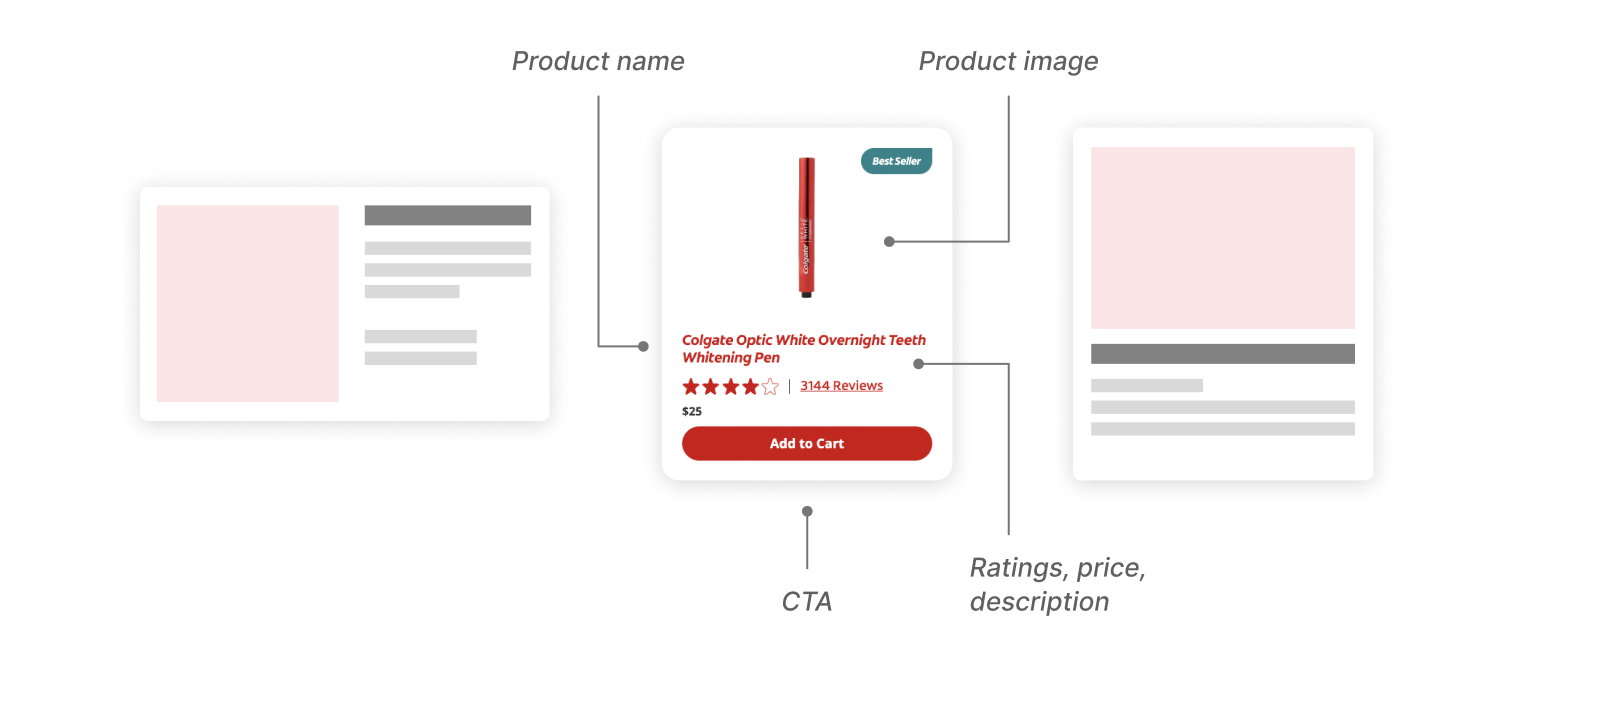
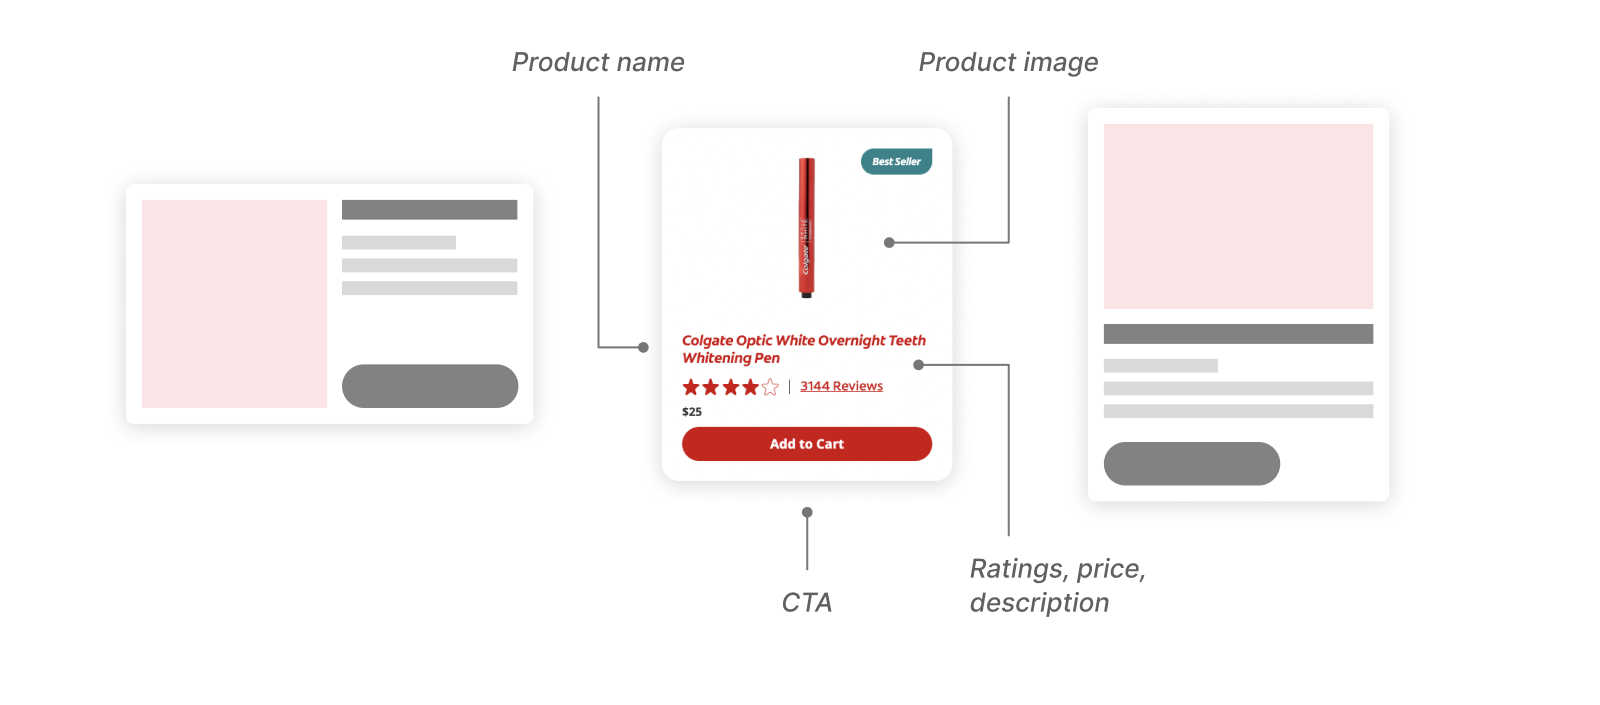
shopsmiles

diff --git a/shopsmiles.html b/shopsmiles.html
@@ -198,31 +198,15 @@
         </div>
 
         <img src="img/shopsmiles/product cards.png">
-    
-        <div class="grid-col-2">
 
-            <div>
-                <p>A card's content depends on what information users deem most important.
-                    From landscape analyses and user interviews, 
-                    we concluded shoppers are <b>most curious</b> of a product's:</p>
-                <ul>
-                    <li>Image</li>
-                    <li>Name</li>
-                    <li>Ratings/reviews</li>
-                    <li>Price</li>
-                </ul>
-            </div>
-
-            <div>
-                <p>The business team also required that we include <b>secondary information</b> such as:</p>
-                <ul>
-                    <li>Sale percentage</li>
-                    <li>Original & discounted price</li>
-                    <li>New/best seller labels</li>
-                </ul>
-            </div>
+        <p>The most important information users look for is a products name, image, price, ratings, description. A call to action (CTA) is often included by the business. 
+        Our business team also required that we include <b>secondary information</b>, or content that will <b>not always be visible</b> on the card:</p>
+        <ul>
+            <li>Sale percentage</li>
+            <li>Original & discounted price</li>
+            <li>New/best seller labels</li>
+        </ul>
                 
-        </div>
     </div>
 
     <div class="padding container-medium">
@@ -232,13 +216,13 @@
     <div class="container-medium">
         <p>While <b>6 variations</b> of the product card lived in the ShopSmiles design system, 
             many were <b>redundant</b> due to similar layouts with minor dimensional differences.
-            Recognizing this, the cards could quickly be consolidated to 4 (vertical and horizontal layout for both desktop and mobile).</p>
+            Recognizing this, the cards using the same layout were immediately consolidated.</p>
         <!-- <img src="img/shopsmiles/many cards.png" alt="" class="border"> -->
         <img src="img/shopsmiles/minimum card.png" alt="" class="border">
     </div>
 
     <div class="container-medium grid-col-2">
-        <p>However, instead of a slightly longer horizontal desktop card, 
+        <p>Instead of a slightly longer horizontal desktop card, 
             I noticed that we could either use (1) the vertical desktop or (3) the newly consolidated horizontal card,
             ultimately resulting in <b>3 card components</b> for ShopSmiles:
         </p>

diff --git a/css/style.css b/css/style.css
@@ -47,7 +47,7 @@ ul{
 }
 
 li{
-    margin-bottom: 0.5rem;
+    margin-bottom: 0.4rem;
 }
 
 s{
